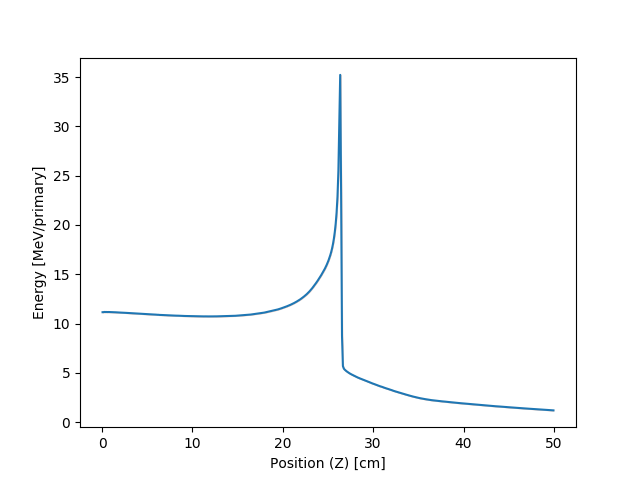
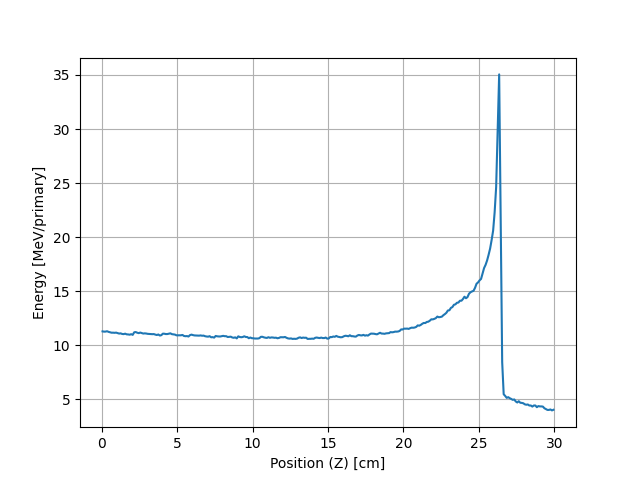
docs improved

diff --git a/docs/image_converter.rst b/docs/image_converter.rst
@@ -63,7 +63,7 @@ Colormap
 ^^^^^^^^
 
 When generating heatmaps it is also possible to specify colormap. List of available colormaps is
-available here: http://matplotlib.org/users/colormaps.html. By default colormap called `gnuplot2` is used.
+available here: https://matplotlib.org/stable/tutorials/colors/colormaps.html. By default colormap called `gnuplot2` is used.
 An example plot obtained with other colormap (`Greys`) can be obtained with following command::
 
     convertmc image --many "*.bdo" --colormap Greys
@@ -71,3 +71,16 @@ An example plot obtained with other colormap (`Greys`) can be obtained with foll
 .. figure:: ex_yzmsh_grey.png
     :scale: 80 %
     :alt: sample file ex_yzmsh_grey.png generated with image converter
+
+
+Grid Lines
+^^^^^^^^^^
+
+It is also possible to specify grid lines for all types of plots. By default grid lines are enabled for 1D plots.
+To enable grid lines for 2D plots type::
+
+    convertmc image --many "*.bdo" --grid 2D
+
+.. figure:: ex_yzmsh_grid.png
+    :scale: 80 %
+    :alt: sample file ex_yzmsh_grid.png generated with image converter
